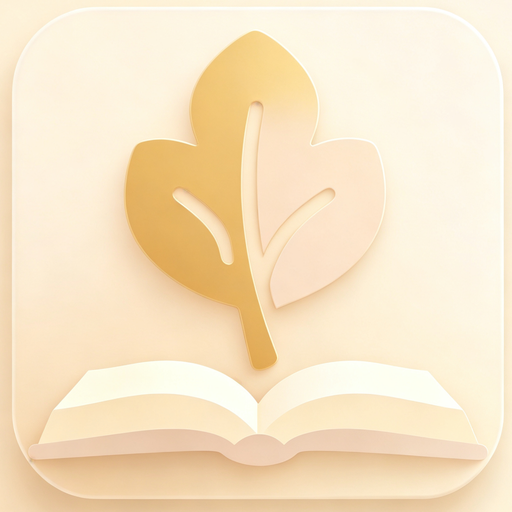
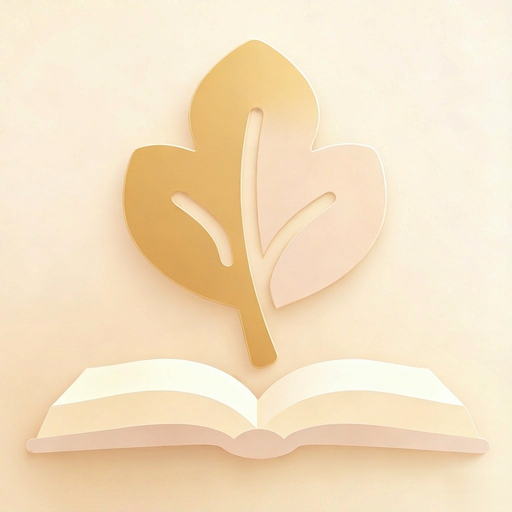
图标重出满版母版：去掉卡片边框（CACHE v73→v74）
- 用图生图重出满版母版：铺满画布、无圆角边框、无投影，AI 水印已抹除
- 旧版直接裁作者展示稿，圆形/圆角启动器下会露出「双层轮廓」
- 站点 4 个 + APK 10 个尺寸全部由 master-a-clean.png 重新生成
- colors.xml 的 ic_launcher_background 同步为 #F7E9D2

diff --git a/sw.js b/sw.js
@@ -56,8 +56,12 @@
  * 旧图；更关键的是同一批改动的 `app/linyuan-latest.apk` 已经是新图标，
  * 站点与安装包会长期对不上，且没有任何报错。
  * 图标引用不带 `?v=`（浏览器按自身策略刷新），所以本次 `?v=` 一律不动（沿用远端现值 127）。
+ *
+ * v74（2026-11-08 · 图标重出满版母版）：v73 那版是直接裁作者的展示稿，卡片自带的
+ * 圆角边框在圆形 / 圆角启动器下会露出「双层轮廓」。这版改用图生图重出的满版母版
+ * （铺满画布、无边框、无投影、无水印），`/favicon.png` 的字节再次变化，所以再 +1。
  */
-var CACHE = 'linyuan-v73';
+var CACHE = 'linyuan-v74';
 
 /**
  * 缓存条目的「自愈 TTL」：超过这个年龄的缓存命中，会在后台补一次刷新。
